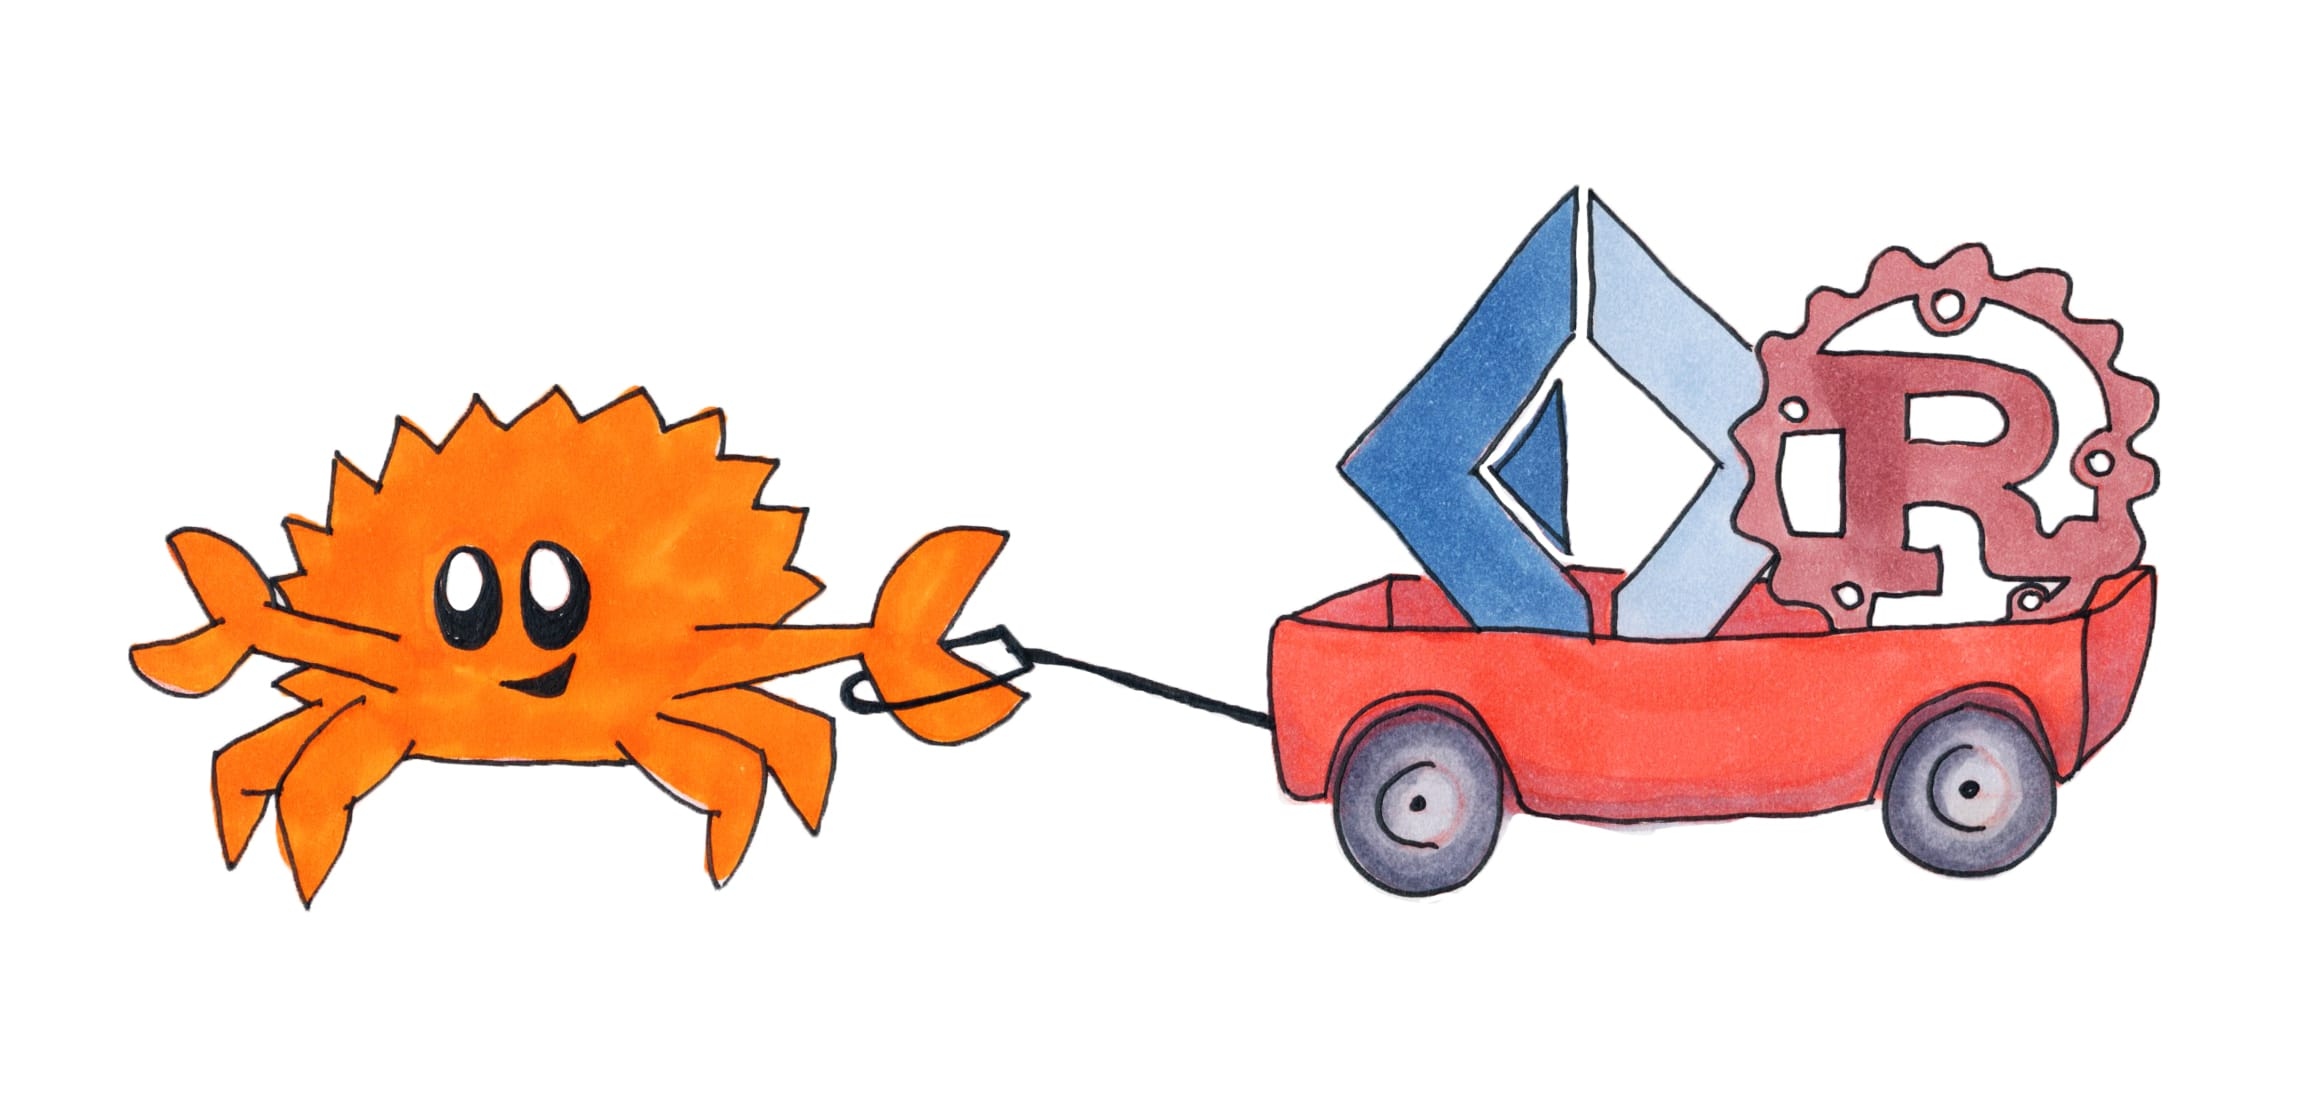
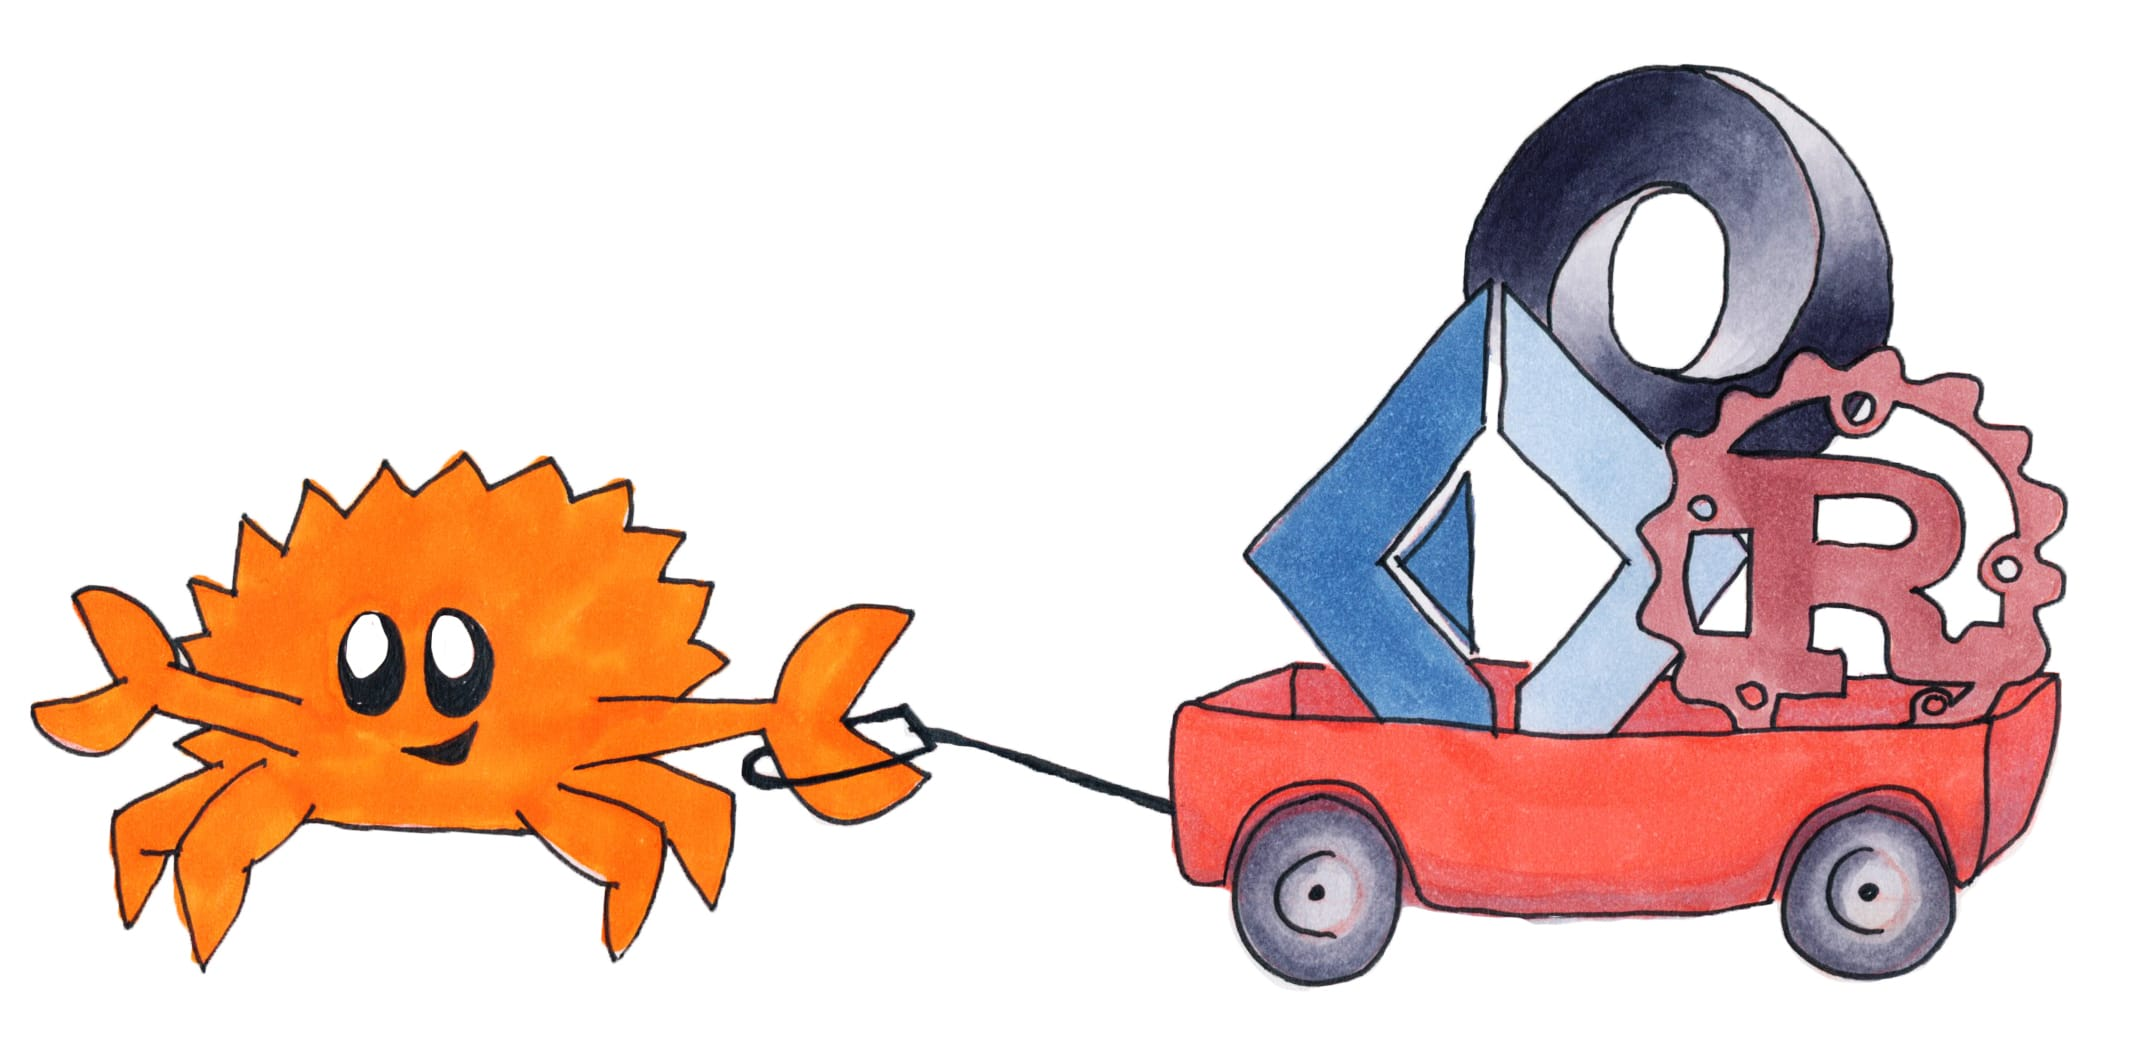
Update ferris cart image

diff --git a/chapters/preface.tex b/chapters/preface.tex
@@ -25,6 +25,6 @@ Project or library name & «json_typegen» \\
 \end{tabular}
 
 \vspace*{1cm}
-\includegraphics[width=10cm, angle=0, trim=10 10 10 10, clip]{ferris/cart2}
+\includegraphics[width=10cm, angle=0, trim=10 10 10 10, clip]{ferris/cart}
 
 \end{center}

diff --git a/README.md b/README.md
@@ -1,6 +1,8 @@
 # Rust types from JSON samples
 #### Approximating type providers with procedural macros in Rust
 
+<img src="ferris/cart.jpg?raw=true" width="400">
+
 My thesis about [json_typegen](https://github.com/evestera/json_typegen).
 
 Rendered PDF of this can be found at [erik.vestera.as/thesis/](http://erik.vestera.as/thesis/).
